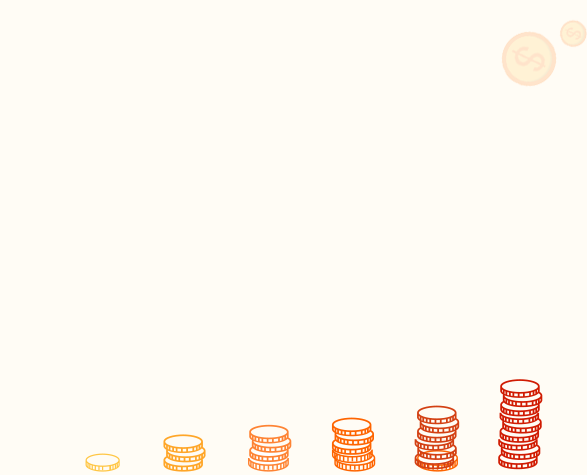
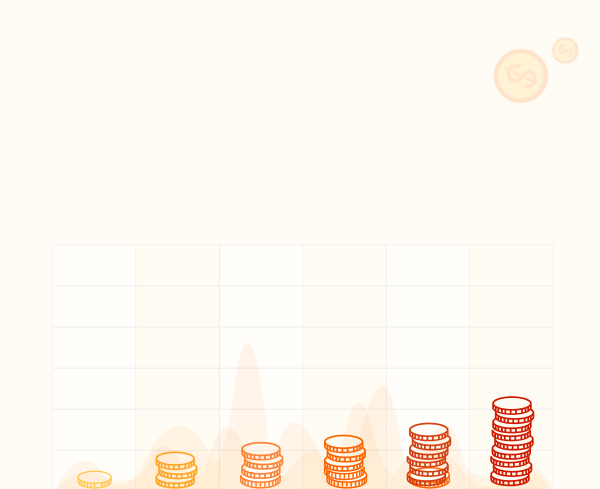
更新

Changed region(s): [[0.092, 0.7958, 0.9506, 1.0], [0.7973, 0.0295, 1.0, 0.2063]]

diff --git a/css/jxm/main.css b/css/jxm/main.css
@@ -1495,7 +1495,7 @@ text-align: right}
 .ttl_introduce_m .history h2{font-size: 2rem; color: #db3710;}
 .ttl_introduce_b{border-top:1px solid #ECECEC; background: #ffffff;margin: 0 0 10px 0;}
 .ttl_introduce_b .title{display: inline-block; height: 30px;color: #9b9b9b;padding: 10px 0 0 0;}
-.ttl_introduce_b .title em{    display: inline-block;width: 18px;height: 18px;float: left;margin: 0px 3px 0 15px; background: url(../../images/ttl_detail.png) -20px -25px;}
+.ttl_introduce_b .title em{display: inline-block;width: 18px;height: 18px;float: left;margin: -1px 3px 0 15px; background: url(../../images/ttl_icon_l.png) no-repeat;background-size: 100%;}
 .ttl_introduce_b .chart{padding: 15px 0;}
 .ttl_introduce_b .chart_head{text-align: center;}
 .ttl_introduce_b .chart_head p{font-size: 1.5rem;}
@@ -1506,34 +1506,36 @@ text-align: right}
 .ttl_introduce_d .detail_a,
 .ttl_introduce_d .detail_b,
 .ttl_introduce_d .detail_c{width: 80%;margin: 0 auto; padding: 0 0 30px 0;}
-.ttl_introduce_d .detail_a .title{display: block;width: 63px;height: 53px;margin: 0 auto; background: url(../../images/ttl_detail.png) -202px -26px;}
+.ttl_introduce_d .detail_a .title{display: block;width: 63px;height: 53px;margin: 0 auto; background: url(../../images/ttl_icon_g.png) no-repeat;background-size: 100%;}
 .ttl_introduce_d .detail_a .head{ margin: 10px 0; font-size:1.8rem;color:#d01b02;text-align: center;}
 .ttl_introduce_d .detail_a .list,
 .ttl_introduce_d .detail_b .list{width: 100%; text-align: center;}
 .ttl_introduce_d .detail_a .list li,
 .ttl_introduce_d .detail_b .list li{width: 30%;display: inline-block; margin: 0 2% 0 0;text-align: center;}
-.ttl_introduce_d .detail_a .list .list_txt{width: 60px;height: 60px;padding: 3px; border: 2px solid #F99822;border-radius: 66px;color: #F99822;font-size: 1.4rem;margin: 0 auto; display: flex;justify-content: center;align-items: center;text-align: center;line-height: 1.4rem; }
+.ttl_introduce_d .detail_a .list .list_box{display: block; width: 60px;height: 60px;position: relative; padding: 3px; border: 2px solid #F99822;    border-radius:  60px ; color: #F99822;font-size: 1.4rem;margin: 0 auto;text-align: center;line-height: 1.4rem; }
+.ttl_introduce_d .detail_a .list .list_box span{display: block;width: 85%; margin: auto; position: absolute; top: 50%; left: 50%;
+  -webkit-transform: translate(-50%,-50%);  -ms-transform: translate(-50%,-50%);transform: translate(-50%,-50%);}
+
 .ttl_introduce_d .detail_b .head,
 .ttl_introduce_d .detail_c .head{font-size: 2rem;text-align: center;margin: 0 0 10px 0;}
-
 .ttl_introduce_d .detail_b .list_head{font-size: 1.8rem; color:#F99822;}
 .ttl_introduce_d .detail_b .list_txt{font-size: 1.2rem; color:#9b9b9b;}
 .ttl_introduce_d .detail_b .list_icon_a,
 .ttl_introduce_d .detail_b .list_icon_b,
 .ttl_introduce_d .detail_b .list_icon_c{display: inline-block;width: 40px;height: 40px;margin: 0 auto;}
-.ttl_introduce_d .detail_b .list_icon_a{background: url(../../images/ttl_detail.png) -52px -25px;}
-.ttl_introduce_d .detail_b .list_icon_b{background: url(../../images/ttl_detail.png) -102px -23px;}
-.ttl_introduce_d .detail_b .list_icon_c{background: url(../../images/ttl_detail.png) -145px -23px;}
-.ttl_introduce_d .detail_c {padding: 0 0 80px 0;}
-.ttl_introduce_d .detail_c .content{width: 210px;    height: 200px;margin: 0 auto;position: relative;background:  url(../../images/ttl_detail.png) -64px -100px;}
+.ttl_introduce_d .detail_b .list_icon_a{background: url(../../images/ttl_icon_h.png) no-repeat; background-size: 100%;}
+.ttl_introduce_d .detail_b .list_icon_b{background: url(../../images/ttl_icon_i.png) no-repeat;background-size: 100%;}
+.ttl_introduce_d .detail_b .list_icon_c{background: url(../../images/ttl_icon_j.png) no-repeat;background-size: 100%;}
+.ttl_introduce_d .detail_c {padding: 0 0 100px 0;}
+.ttl_introduce_d .detail_c .content{width: 250px;height: 200px;margin: 0 auto;position: relative;background: url(../../images/ttl_icon_k.png) no-repeat;background-size: 100%;}
 .ttl_introduce_d .list_con_a,
 .ttl_introduce_d .list_con_b,
 .ttl_introduce_d .list_con_c,
 .ttl_introduce_d .list_con_d{position: absolute; color:#9b9b9b;font-size: 1.2rem; }
-.ttl_introduce_d .list_con_a{top:64px;left: 0;}
-.ttl_introduce_d .list_con_b{top:92px;right: 0;}
-.ttl_introduce_d .list_con_c{top:154px;left: 0;}
-.ttl_introduce_d .list_con_d{top:180px;right: 0;}
+.ttl_introduce_d .list_con_a{top:70px;left: 0;}
+.ttl_introduce_d .list_con_b{top:103px;right: 0;}
+.ttl_introduce_d .list_con_c{top:178px;left: 0;}
+.ttl_introduce_d .list_con_d{top:208px;right: 0;}
 /*action*/
 .ttl_introduce_d .action {position: fixed;bottom: 0;left: 0;width: 100%;height: 60px; background: #fff;border-top:1px solid #F0F0EF;}
 .ttl_introduce_d .action .action_list {margin: 15px 0;}

diff --git a/js/jxm/tpl/ttl_introduce.tpl.js b/js/jxm/tpl/ttl_introduce.tpl.js
@@ -60,9 +60,9 @@ define(function (require, exports, module) {
                         <em class="title"></em>\
                         <h2 class="head">收益率按天增涨的活期理财</h2>\
                         <ul class="list">\
-                            <li><span class="list_txt">5% 年化起</span></li>\
-                            <li><span class="list_txt">12% 年化最高</span></li>\
-                            <li><span class="list_txt">t+0 当日起息</span></li>\
+                            <li><p class="list_box"><span>5%<br/>年化起</span></p></li>\
+                            <li><p class="list_box"><span>12%<br/>年化最高</span></p></li>\
+                            <li><p class="list_box"><span>t+0<br/>当日起息</span></p></li>\
                         </ul>\
                     </div>\
                     <div class="detail_b">\
